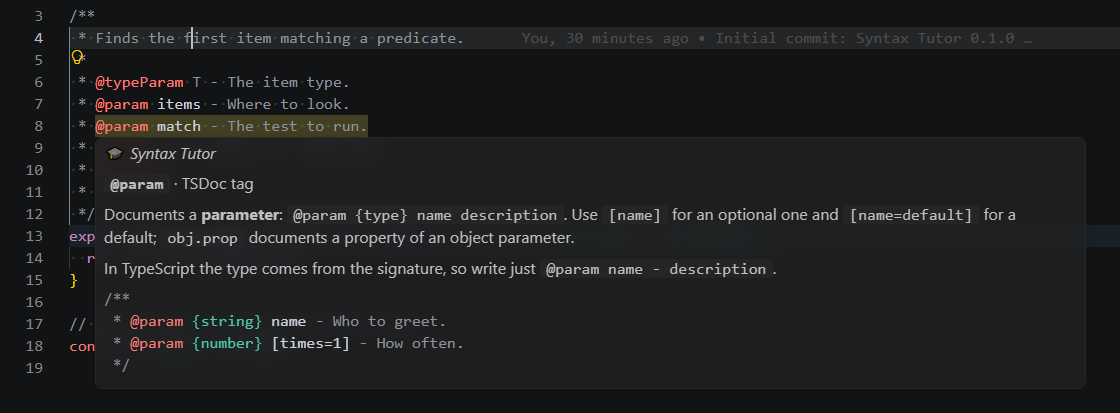
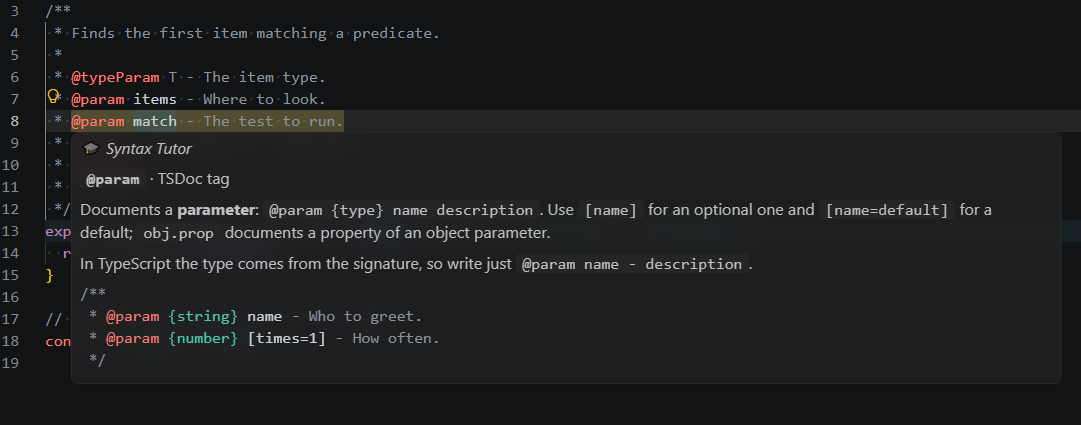
Add images for doc-comment parameter and explain line features; update .vscodeignore

diff --git a/README.md b/README.md
@@ -20,31 +20,54 @@ This plugin helps with that by highlighting scopes and showing explanation-on-ho
 
 ## Features
 
-- **Hover explanations.** Hover a keyword, operator, built-in, literal or declaration name to see what it means. You get a short explanation, an example and a link to the official docs. The same token gets a different explanation depending on where it appears: `*` in `*int` (pointer type), `*p` (dereference) and `a * b`, or `<-` as send, receive or channel direction.
-- **Scope highlighting.** Put the cursor on (or hover) a keyword or a declaration name. The construct it belongs to gets a marker-style background, and the opening keyword and closing bracket get an outline. For example, `func`, `fn` or a function's name highlights the whole function, `else` highlights the whole `if`/`else` chain, and `range` highlights its `for` loop.
-- **Jump targets.** For `return`, `break`, `continue`, `goto`, `throw`, `yield`/`await` and language-specific jumps (Go's `defer`/`fallthrough`, Rust's `?`), the scope they leave or jump to gets a second, lighter highlight. Labelled loops are followed, and the hover tells you where the jump goes.
-- **Comments and doc comments.** Hovering a comment says what kind it is: plain, doc comment (JSDoc/TSDoc, Doxygen, C# XML doc, rustdoc `///`/`//!`, Go doc comments), a directive (`//go:build`, `// @ts-expect-error`, `/// <reference>`, `// NOLINT`, ESLint, ...) or a `TODO`. The whole comment block is highlighted, and a doc comment also lightly highlights the declaration it documents. Doc tags get their own explanation: `@param`, `\brief`, `<summary>`, `<param name="x">`, Rust `# Examples` / doc tests, Go `Deprecated:`. A tag that names a parameter highlights that parameter, and doc links (`{@link foo}`, `[Name]`, `<see cref="..."/>`) highlight the linked declaration.
-- **Explain This Line.** Right-click a line (or select several) and choose **Syntax Tutor: Explain This Line**, or press `Ctrl+Shift+Alt+E` (`Cmd+Shift+Alt+E` on Mac). A side panel explains every part of the line in reading order: keywords, operators and brackets get their explanation, and plain names say where they are declared ("declared on line 12 as a parameter"). When your language extension (TypeScript, gopls, rust-analyzer, C#, C/C++) has documentation for a name or member, the entry gets a collapsed **IntelliSense documentation** section with that doc string; bare signatures like `(local variable) Guid userId` are left out. A sentence at the top says what the line is, for example "This line starts the `for` statement (lines 38–40)". With several lines selected, parts inside a block or branch opened in those lines are indented under a small "inside the body of the `if` statement" header, with a coloured border per nesting level. Hover an entry to highlight it in the editor, click it to scroll there (your selection stays), double-click to put the cursor on it, and turn on **Follow cursor** to keep the panel in step as you move through the code.
+- **Hover explanations.** Hover a piece of syntax to see what it means.
+
+  ![Hover popup explaining the * operator in Go](images/hover.png)
+
+  This works on keywords, operators, built-ins, literals and declaration names. You get a short explanation, an example and a link to the official docs. The same token gets a different explanation depending on where it appears: `*` in `*int` (pointer type), `*p` (dereference) and `a * b`, or `<-` as send, receive or channel direction.
+
+- **Scope highlighting.** See at a glance which construct a keyword belongs to.
+
+  ![Scope highlight following the cursor over func, else and range](images/scope.gif)
+
+  Put the cursor on (or hover) a keyword or a declaration name. The construct it belongs to gets a marker-style background, and the opening keyword and closing bracket get an outline. For example, `func`, `fn` or a function's name highlights the whole function, `else` highlights the whole `if`/`else` chain, and `range` highlights its `for` loop.
+
+- **Jump targets.** See where `return`, `break` and other jumps take you.
+
+  ![Jump-target highlight for a return statement](images/jump.png)
+
+  For `return`, `break`, `continue`, `goto`, `throw`, `yield`/`await` and language-specific jumps (Go's `defer`/`fallthrough`, Rust's `?`), the scope they leave or jump to gets a second, lighter highlight. Labelled loops are followed, and the hover tells you where the jump goes.
+
+- **Comments and doc comments.** Find out what kind of comment you're reading and what its doc tags mean.
+
+  ![Hover on a @param tag in a TSDoc comment](images/doc-comment.png)
+  ![The parameter of the selected tag is highlighted in code](images/doc-comment-param.png)
+
+  Hovering a comment says what kind it is: plain, doc comment (JSDoc/TSDoc, Doxygen, C# XML doc, rustdoc `///`/`//!`, Go doc comments), a directive (`//go:build`, `// @ts-expect-error`, `/// <reference>`, `// NOLINT`, ESLint, ...) or a `TODO`. The whole comment block is highlighted, and a doc comment also lightly highlights the declaration it documents. Doc tags get their own explanation: `@param`, `\brief`, `<summary>`, `<param name="x">`, Rust `# Examples` / doc tests, Go `Deprecated:`. A tag that names a parameter highlights that parameter, and doc links (`{@link foo}`, `[Name]`, `<see cref="..."/>`) highlight the linked declaration.
+
+- **Explain This Line.** Get every part of a line explained, in order, in a side panel.
+
+  ![Explain This Line panel breaking down a C enum declaration part by part](images/explain-line.png)
+
+  Right-click a line (or select several) and choose **Syntax Tutor: Explain This Line**, or press `Ctrl+Shift+Alt+E` (`Cmd+Shift+Alt+E` on Mac). The panel explains every part of the line in reading order: keywords, operators and brackets get their explanation, and plain names say where they are declared ("declared on line 12 as a parameter"). When your language extension (TypeScript, gopls, rust-analyzer, C#, C/C++) has documentation for a name or member, the entry gets a collapsed **IntelliSense documentation** section with that doc string; bare signatures like `(local variable) Guid userId` are left out. A sentence at the top says what the line is, for example "This line starts the `for` statement (lines 38–40)". With several lines selected, parts inside a block or branch opened in those lines are indented under a small "inside the body of the `if` statement" header, with a coloured border per nesting level. Hover an entry to highlight it in the editor, click it to scroll there (your selection stays), double-click to put the cursor on it, and turn on **Follow cursor** to keep the panel in step as you move through the code.
 
 Syntax Tutor parses code with [tree-sitter](https://tree-sitter.github.io/), so it needs no language server (gopls, rust-analyzer, clangd, ...). If you do use one, both hovers appear in the same popup, and the Syntax Tutor part starts with **🎓 *Syntax Tutor***.
 
-## Screenshots
+## Commands
 
-Hover a keyword or operator to see what it does:
+Run these from the Command Palette (`Ctrl+Shift+P`, `Cmd+Shift+P` on Mac).
 
-![Hover popup explaining the * operator in Go](images/hover.png)
+- **Syntax Tutor: Explain This Line** opens the Explain This Line panel for the line the cursor is on, or for all selected lines.
 
-Moving the cursor over a keyword highlights the scope it belongs to:
+  It's also in the editor's right-click menu, and has the shortcut `Ctrl+Shift+Alt+E` (`Cmd+Shift+Alt+E` on Mac). It works in Go, Rust, C, C++, C#, JavaScript and TypeScript files.
 
-![Scope highlight following the cursor over func, else and range](images/scope.gif)
+- **Syntax Tutor: Toggle Hover Explanations** turns the hover explanations on or off.
 
-`return`, `break` and `continue` also lightly highlight where they jump to:
+  It changes `syntaxTutor.hover.enabled` in your user settings, so the choice stays in every window and after a restart. The status bar briefly shows whether it's now on or off.
 
-![Jump-target highlight for a return statement](images/jump.png)
+- **Syntax Tutor: Toggle Scope Highlighting** turns the scope and jump-target highlighting on or off.
 
-Doc-comment tags are explained too, and a tag that names a parameter highlights that parameter:
-
-![Hover on a @param tag in a TSDoc comment](images/doc-comment.png)
+  It changes `syntaxTutor.scopeHighlight.enabled` in your user settings, so the choice stays in every window and after a restart. The status bar briefly shows whether it's now on or off.
 
 ## Settings
 
@@ -56,8 +79,6 @@ Doc-comment tags are explained too, and a tag that names a parameter highlights 
 | `syntaxTutor.scopeHighlight.hoverTimeout` | `4` | Seconds before a hover-started highlight clears itself (`0` = keep it) |
 | `syntaxTutor.scopeHighlight.showRelated` | `true` | Lighter highlight for jump targets and documented declarations |
 | `syntaxTutor.comments` | `all` | `all`, `doc` (skip plain comments) or `off` |
-
-Commands: **Syntax Tutor: Explain This Line**, **Syntax Tutor: Toggle Hover Explanations** and **Syntax Tutor: Toggle Scope Highlighting**.
 
 You can change the colors in `settings.json`:
 
